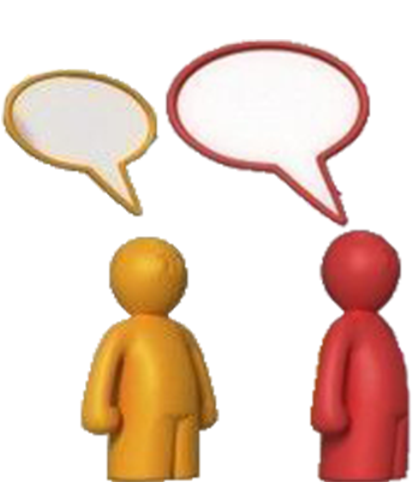
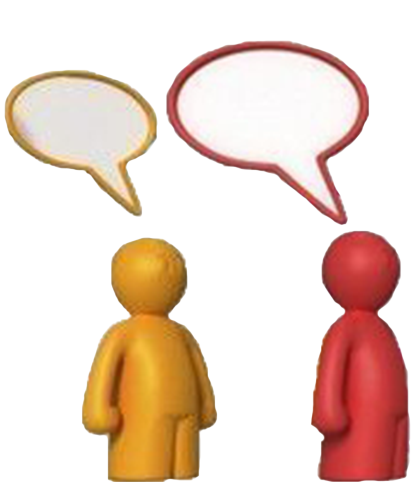
mejoras de diseño, quitado de fondo de imagenes de soft skills, cambio de btn de enviar correo

diff --git a/public/css/style.css b/public/css/style.css
@@ -764,13 +764,15 @@ h2::first-letter {
   display: flex;
   flex-direction: column;
   text-align: center;
-  flex-wrap: nowrap;
   margin: 20px 0;
 }
 
 .opcion-de-contacto p {
   font-family: var(--montserrat-alternates);
   font-weight: bold;
+}
+.action {
+  width: min-content;
 }
 
 .ico {
@@ -820,10 +822,63 @@ h2::first-letter {
   justify-content: flex-end;
 }
 
-.btnEnviar {
-  padding: 12px 26px;
+/* BTN enviar */
+/* From uiverse.io by @adamgiebl */
+button {
   font-family: var(--montserrat-alternates);
   border: 1px solid var(--silver-metallic);
+  cursor: pointer;
+  padding: 10px 20px;
+  display: flex;
+  align-items: center;
+  overflow: hidden;
+  transition: all 0.2s;
+}
+
+button span {
+  display: block;
+  transition: all 0.3s ease-in-out;
+}
+
+button svg {
+  display: block;
+  transform-origin: center center;
+  transition: transform 0.3s ease-in-out;
+}
+
+button:hover .svg-wrapper {
+  animation: fly-1 0.6s ease-in-out infinite alternate;
+}
+
+button:hover svg {
+  transform: translateX(1.2em) rotate(45deg) scale(1.1);
+}
+
+button:hover span {
+  transform: translateX(5em);
+}
+
+button:active {
+  transform: scale(0.95);
+}
+
+@keyframes fly-1 {
+  from {
+    transform: translateY(0.1em);
+  }
+
+  to {
+    transform: translateY(-0.1em);
+  }
+}
+
+/*  */
+
+.btnEnviar {
+  /* padding: 12px 26px; */
+  font-family: var(--montserrat-alternates);
+  border: 1px solid var(--silver-metallic);
+  cursor: pointer;
 }
 
 /* RRSS */
